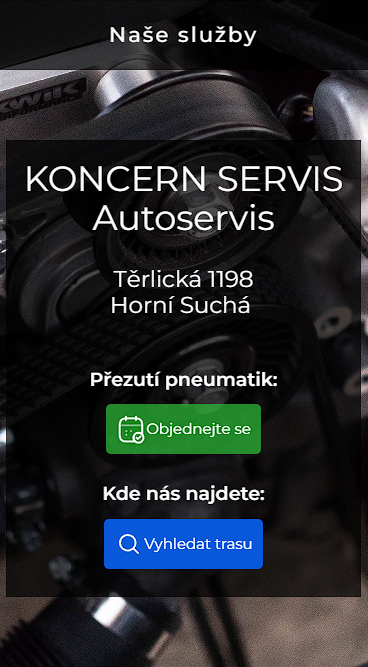
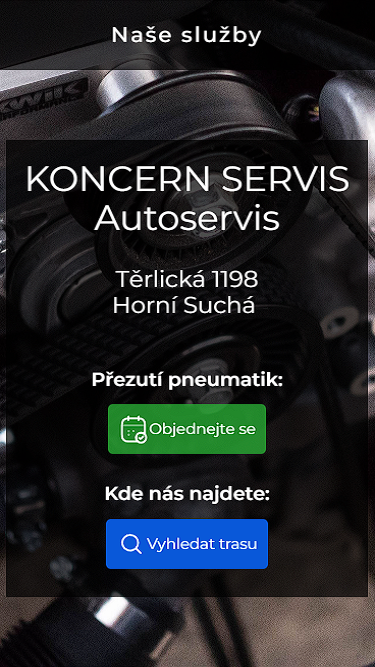
langing pages detail in progress

diff --git a/README.md b/README.md
@@ -57,11 +57,11 @@
   <summary> Landing pages </summary>
 
 
-|Morbus Tschengi|Simple Chat|Firebase TODO|
+|Morbus Tschengi|Simple Chat|Morbus Tschengi|
 | :-------------: | :-------------: | :-------------: |
 |<img width="80px" height="30px" src="https://seeklogo.com/images/P/plasmic-logo-E16F65B4E1-seeklogo.com.png" /> |<img  width="30px" alt="" style="padding-right:10px;" src="https://cdn.jsdelivr.net/gh/devicons/devicon/icons/react/react-original.svg" /> <img width="30px" src="https://cdn.jsdelivr.net/gh/devicons/devicon/icons/firebase/firebase-plain-wordmark.svg" /><img  width="30px" alt="" style="padding-right:10px;" src="https://cdn.jsdelivr.net/gh/devicons/devicon/icons/javascript/javascript-original.svg" /><img  width="30px" alt="" style="padding-right:10px;" src="https://cdn.jsdelivr.net/gh/devicons/devicon/icons/tailwindcss/tailwindcss-plain.svg" /> |<img width="30px" src="https://cdn.jsdelivr.net/gh/devicons/devicon/icons/firebase/firebase-plain-wordmark.svg" /><img  width="30px" alt="" style="padding-right:10px;" src="https://cdn.jsdelivr.net/gh/devicons/devicon/icons/javascript/javascript-original.svg" /><img  width="30px" alt="" style="padding-right:10px;" src="https://cdn.jsdelivr.net/gh/devicons/devicon/icons/tailwindcss/tailwindcss-plain.svg" /><img  width="30px" alt="" style="padding-right:10px;" src="https://cdn.jsdelivr.net/gh/devicons/devicon/icons/react/react-original.svg" />                                                                                           |
-|<img src="./images/Autoservis.png" width="200"></img>|<img src="./images/Chat.png" width="200"></img>|<img src="./images/Firebase.png" width="200"></img>|
-|[Visit Site Here](https://koncern-servis.plasmic.run/)|[Visit Site Here](https://chatter-eta.vercel.app/)|[Visit Site Here](https://todo-firebase-lake.vercel.app/)|
+|<img src="./images/Autoservis.png" width="195"></img>|<img src="./images/FirstCV.png" width="200"></img>|<img src="./images/MorbusTschengi.png" width="200"></img>|
+|[Visit Site Here](https://koncern-servis.plasmic.run/)|[Visit Site Here](https://my-old-cv.vercel.app/)|[Visit Site Here](https://morbus-tschengi.vercel.app/)|
 
 
  </details>
